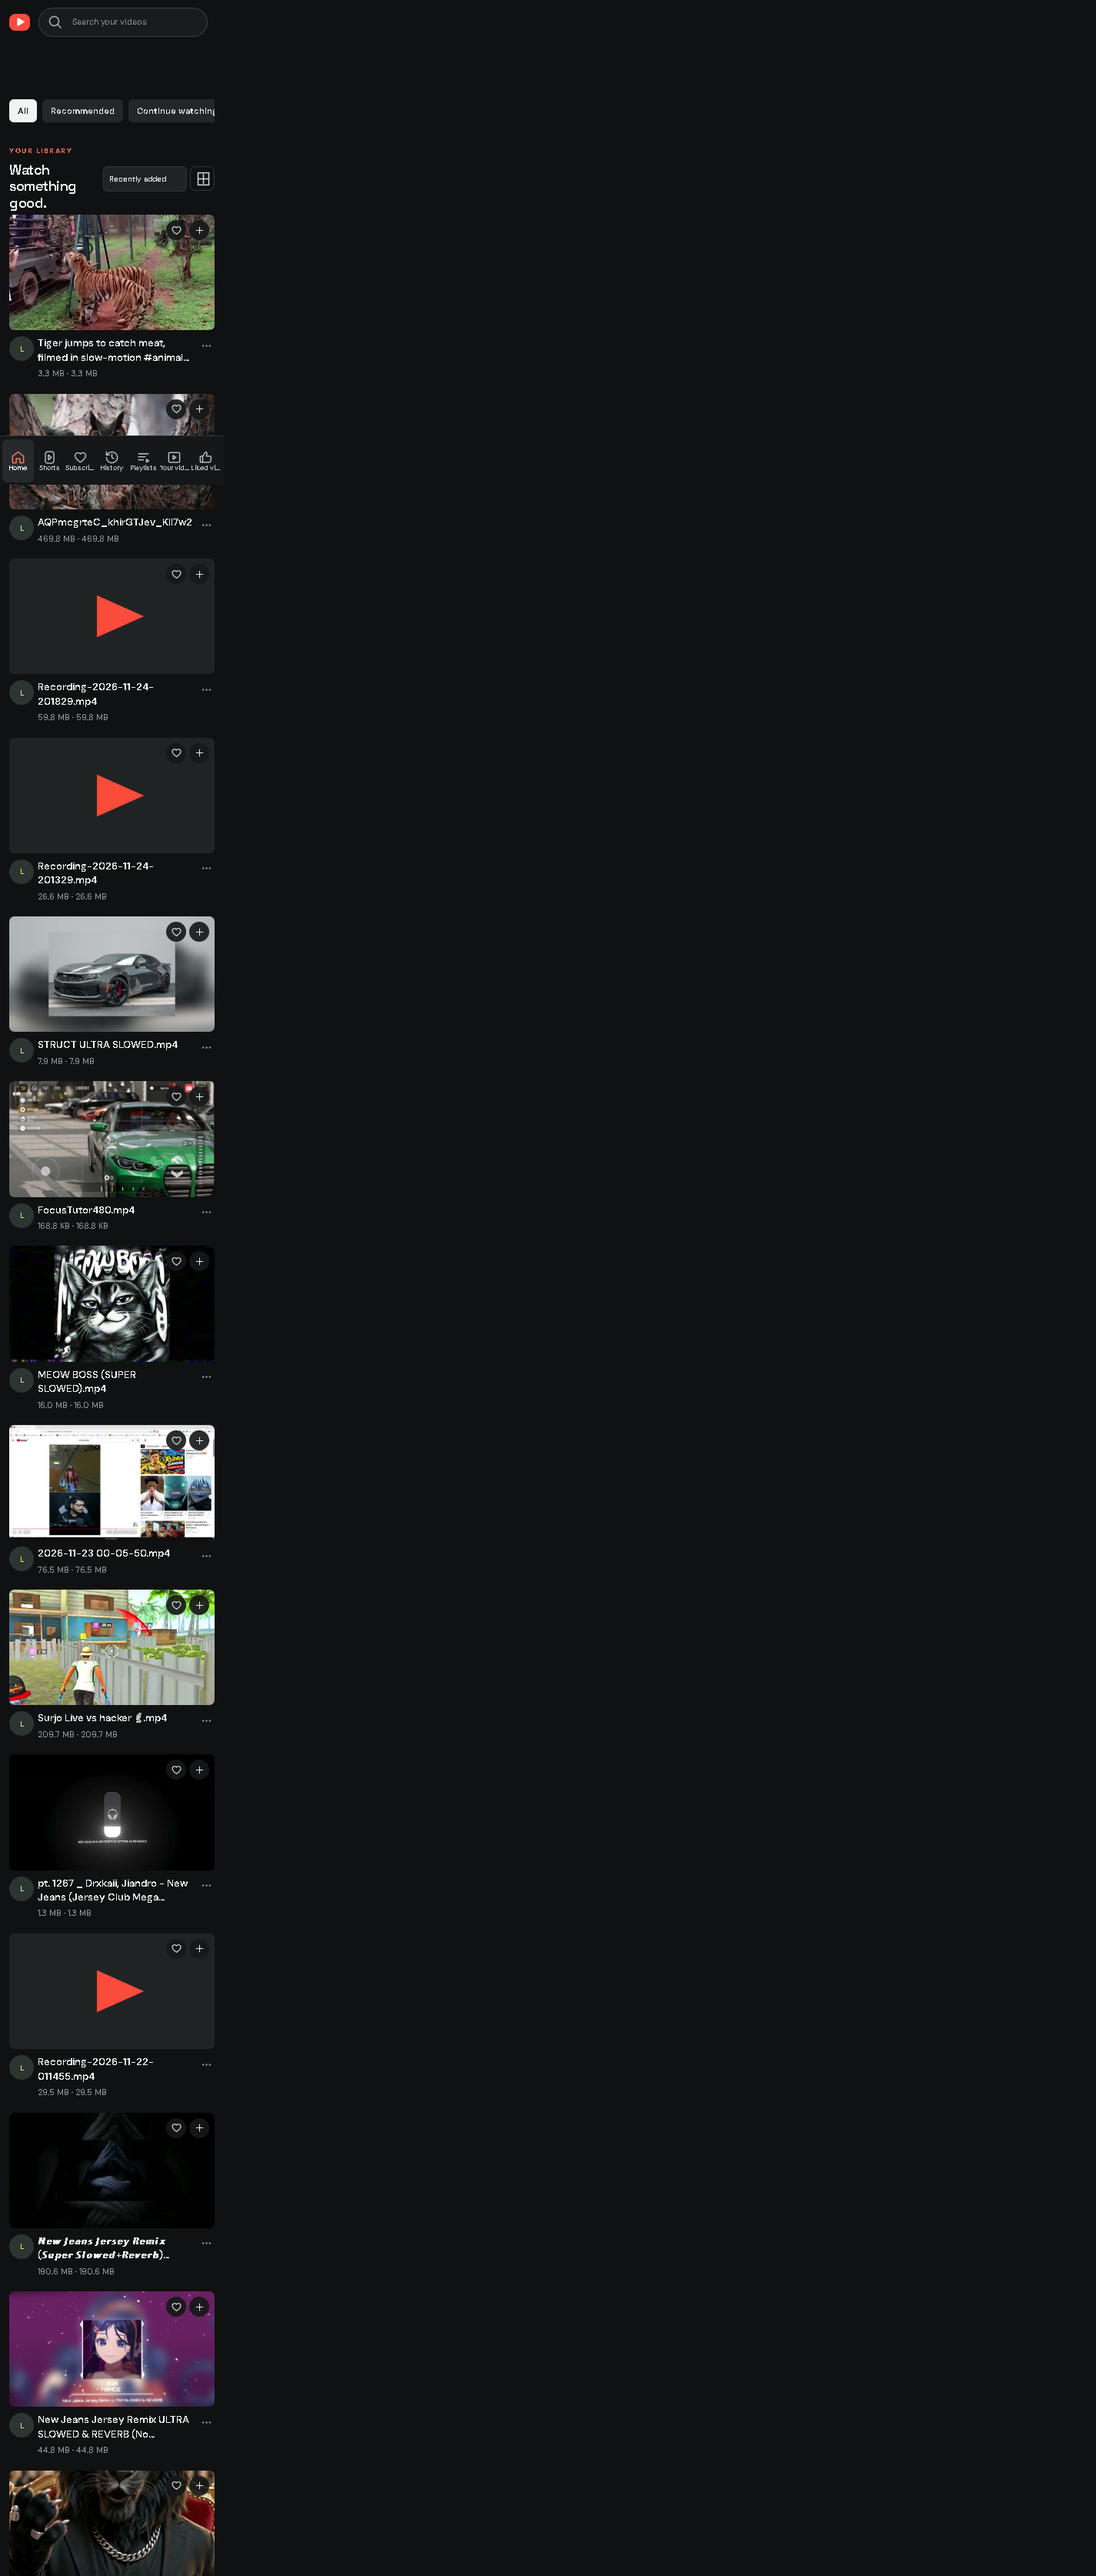
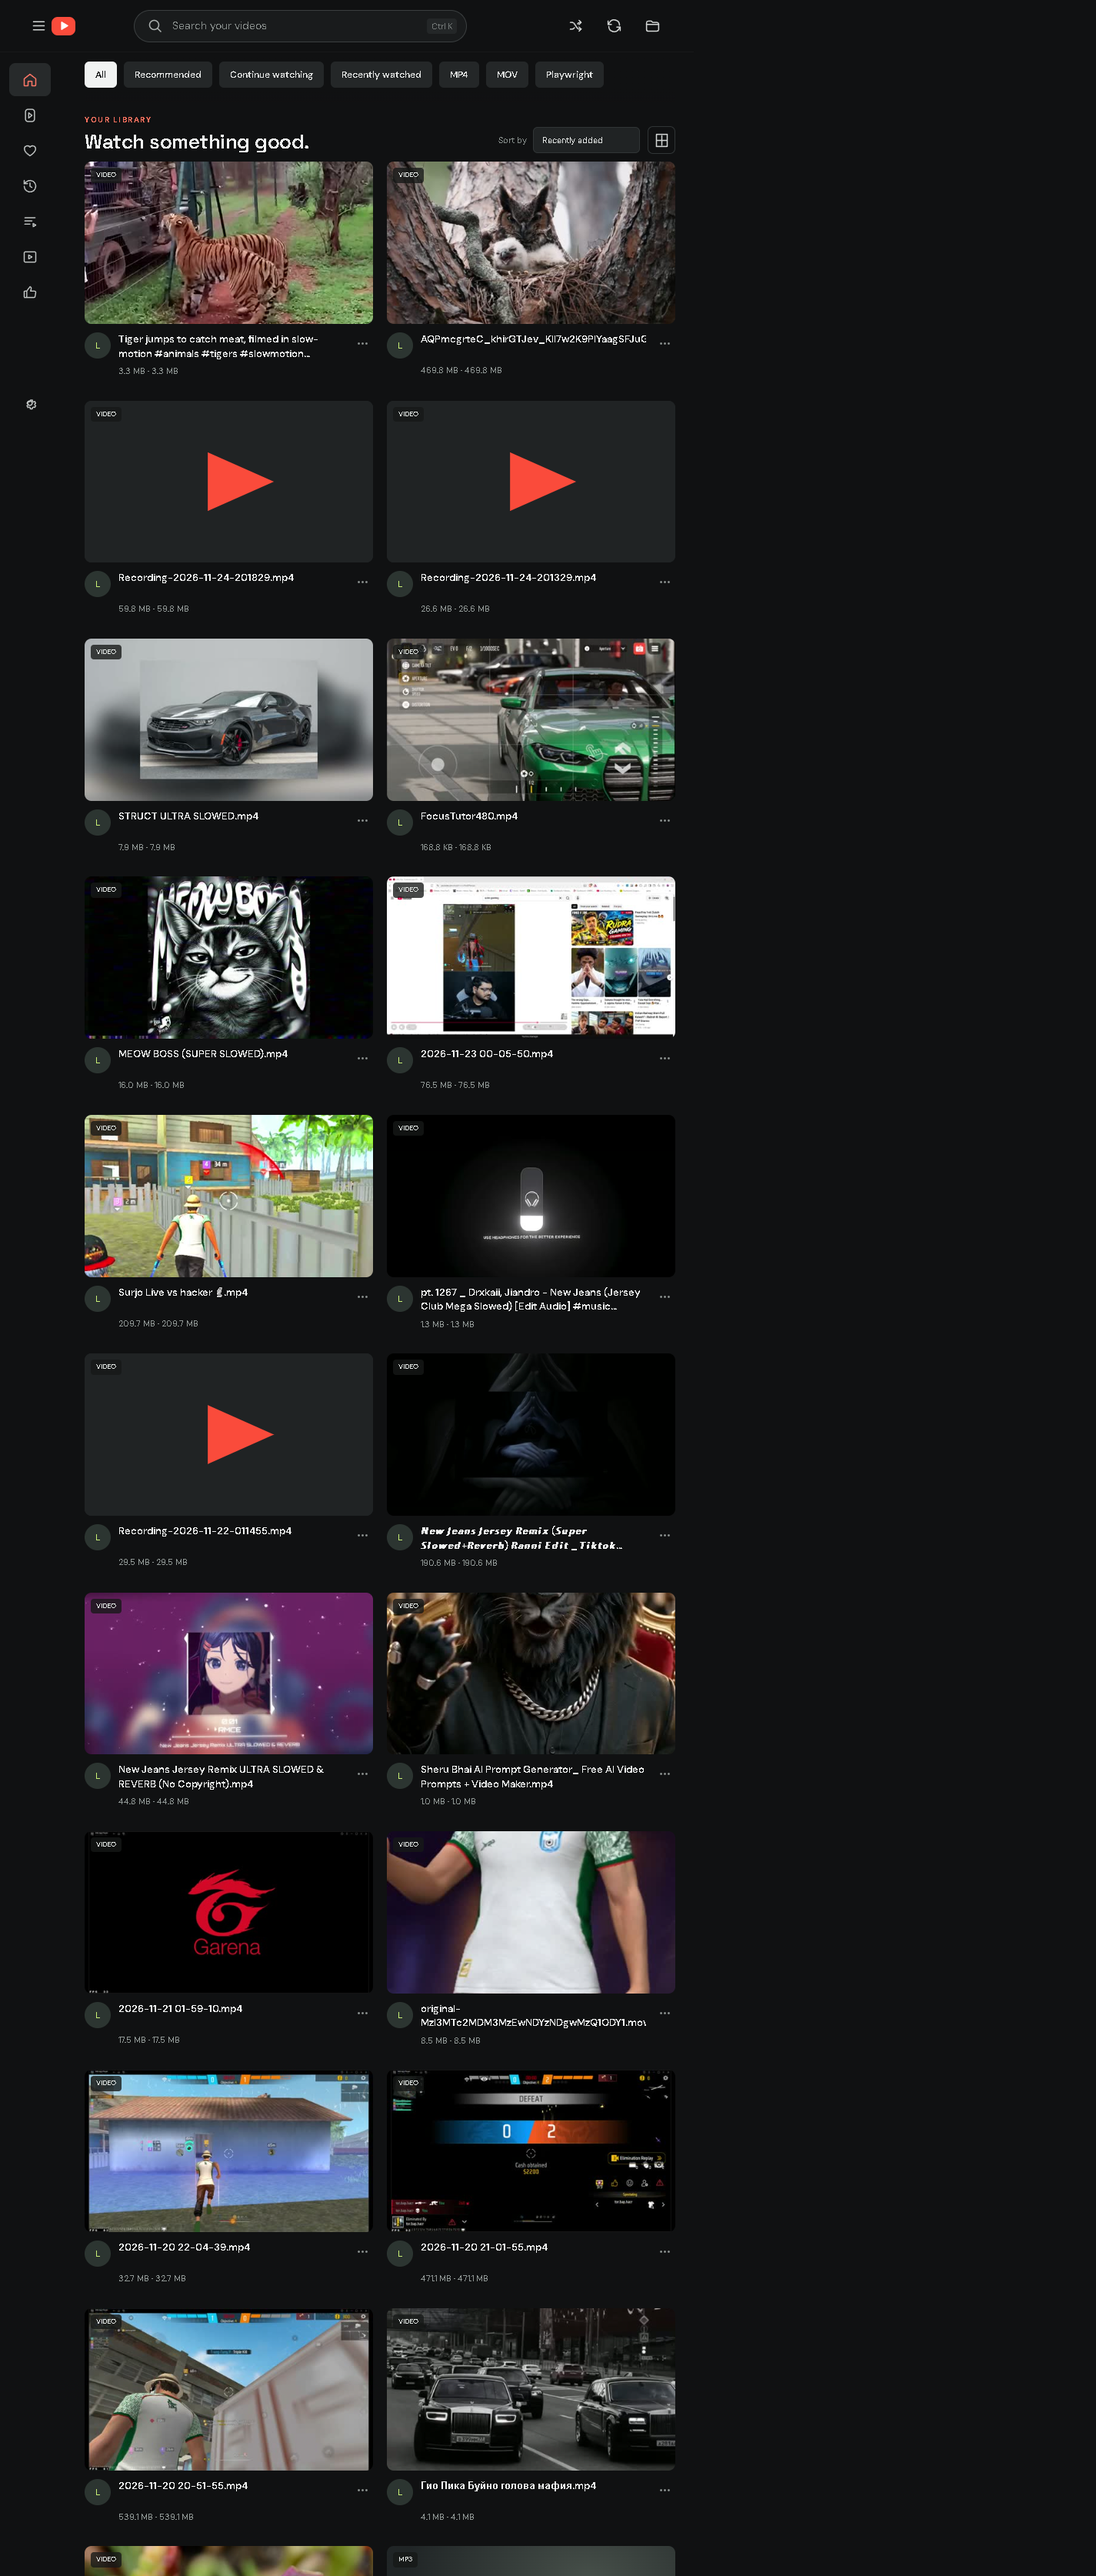
Fix desktop tablet and mobile layouts

diff --git a/css/responsive.css b/css/responsive.css
@@ -5,6 +5,7 @@
 @media(prefers-reduced-motion:reduce){*,*::before,*::after{scroll-behavior:auto!important;animation-duration:.01ms!important;transition-duration:.01ms!important}}
 @media(max-width:650px){.main-content{padding-top:120px}.category-bar{top:118px}.content-section{min-width:0}.section-heading{gap:8px}.section-heading>div:first-child{min-width:0}.section-heading h1{overflow-wrap:anywhere}.video-grid{min-height:180px}.empty-state{min-height:42vh}.player-frame{min-height:180px}.player-frame audio{width:100%;margin-top:42px}}
 @media(max-width:650px){html,body{max-width:100%;overflow-x:hidden}.topbar{height:58px}.brand-area{flex:none}.search-wrap{min-width:0}.sidebar{position:fixed;inset:auto 0 0;width:100%;height:64px;padding:4px 3px calc(4px + env(safe-area-inset-bottom));border-top:1px solid var(--line);border-right:0;z-index:40}.primary-nav{width:100%;height:100%;display:grid;grid-template-columns:repeat(7,minmax(0,1fr));justify-content:stretch;gap:0}.nav-item{width:100%;min-width:0;height:56px;padding:3px 1px}.nav-item span{max-width:100%;overflow:hidden;text-overflow:ellipsis;white-space:nowrap}.main-content{padding:118px 12px calc(82px + env(safe-area-inset-bottom))}.category-bar{top:58px;height:60px;z-index:19}.section-heading{width:100%}.video-grid{width:100%}.player-view{width:100%}.player-frame{width:100%}.player-sidebar{display:none}.player-layout{width:100%}}
-@media(max-width:380px){.video-grid{grid-template-columns:minmax(0,1fr);gap:18px}.card-meta{grid-template-columns:32px minmax(0,1fr) 24px}.channel-mark{width:32px;height:32px}.card-title{font-size:13px;min-height:0}.card-subtitle{font-size:11px}.brand{max-width:30px}.brand>span:last-child{display:none}.search-box input{font-size:11px}}
+@media(min-width:651px) and (max-width:950px){.video-grid{grid-template-columns:repeat(2,minmax(0,1fr))}.main-content{padding-right:24px}.player-layout{grid-template-columns:1fr}}
+@media(max-width:380px){.video-grid{grid-template-columns:repeat(2,minmax(0,1fr));gap:18px 8px}.card-meta{grid-template-columns:24px minmax(0,1fr) 18px}.channel-mark{width:24px;height:24px}.card-title{font-size:11px;min-height:31px}.card-subtitle{font-size:9px}.brand{max-width:30px}.brand>span:last-child{display:none}.search-box input{font-size:11px}}
 .video-card{animation:none!important}
 [hidden]{display:none!important}

diff --git a/index.html b/index.html
@@ -11,7 +11,7 @@
   <link rel="preconnect" href="https://fonts.gstatic.com" crossorigin>
   <link href="https://fonts.googleapis.com/css2?family=DM+Sans:wght@400;500;600;700&family=Space+Grotesk:wght@500;600;700&display=swap" rel="stylesheet">
   <link rel="stylesheet" href="css/style.css?v=2">
-  <link rel="stylesheet" href="css/responsive.css?v=3">
+  <link rel="stylesheet" href="css/responsive.css?v=4">
 </head>
 <body>
   <div class="app-shell" id="appShell">
